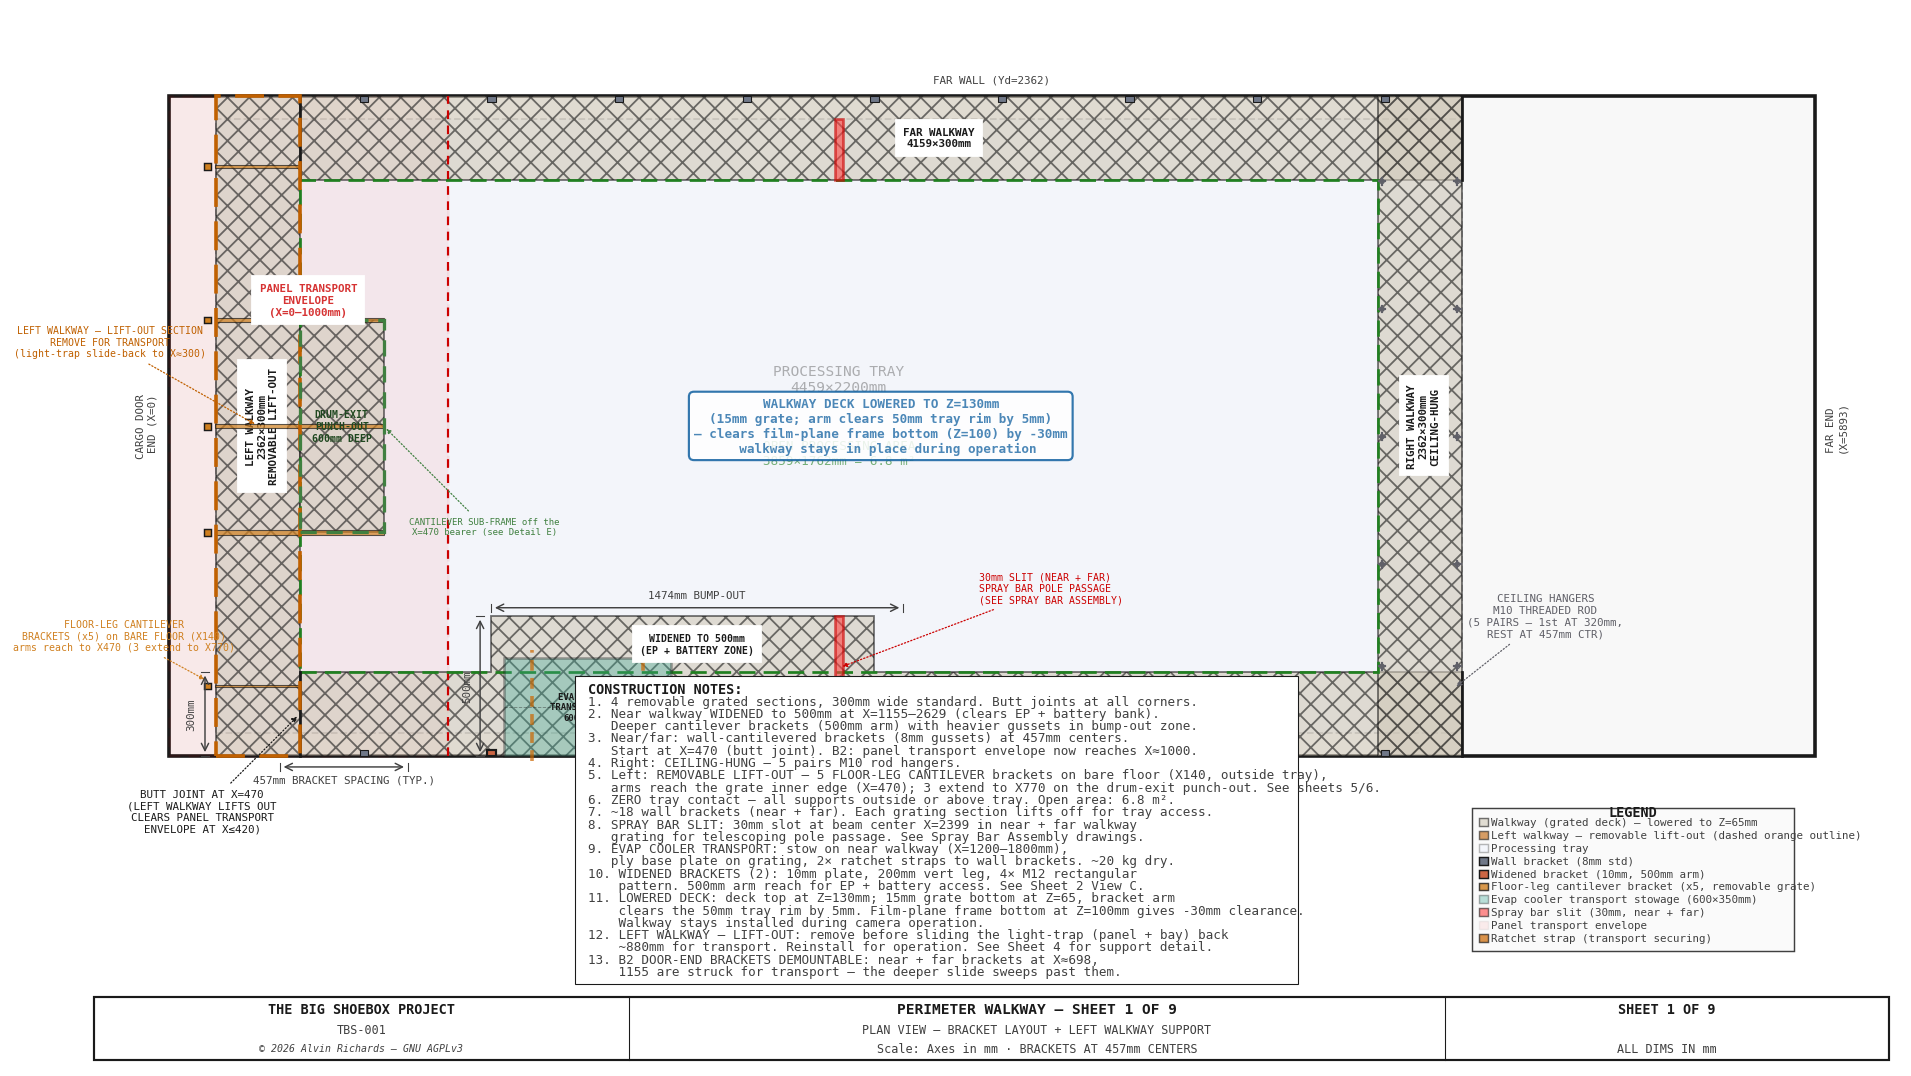
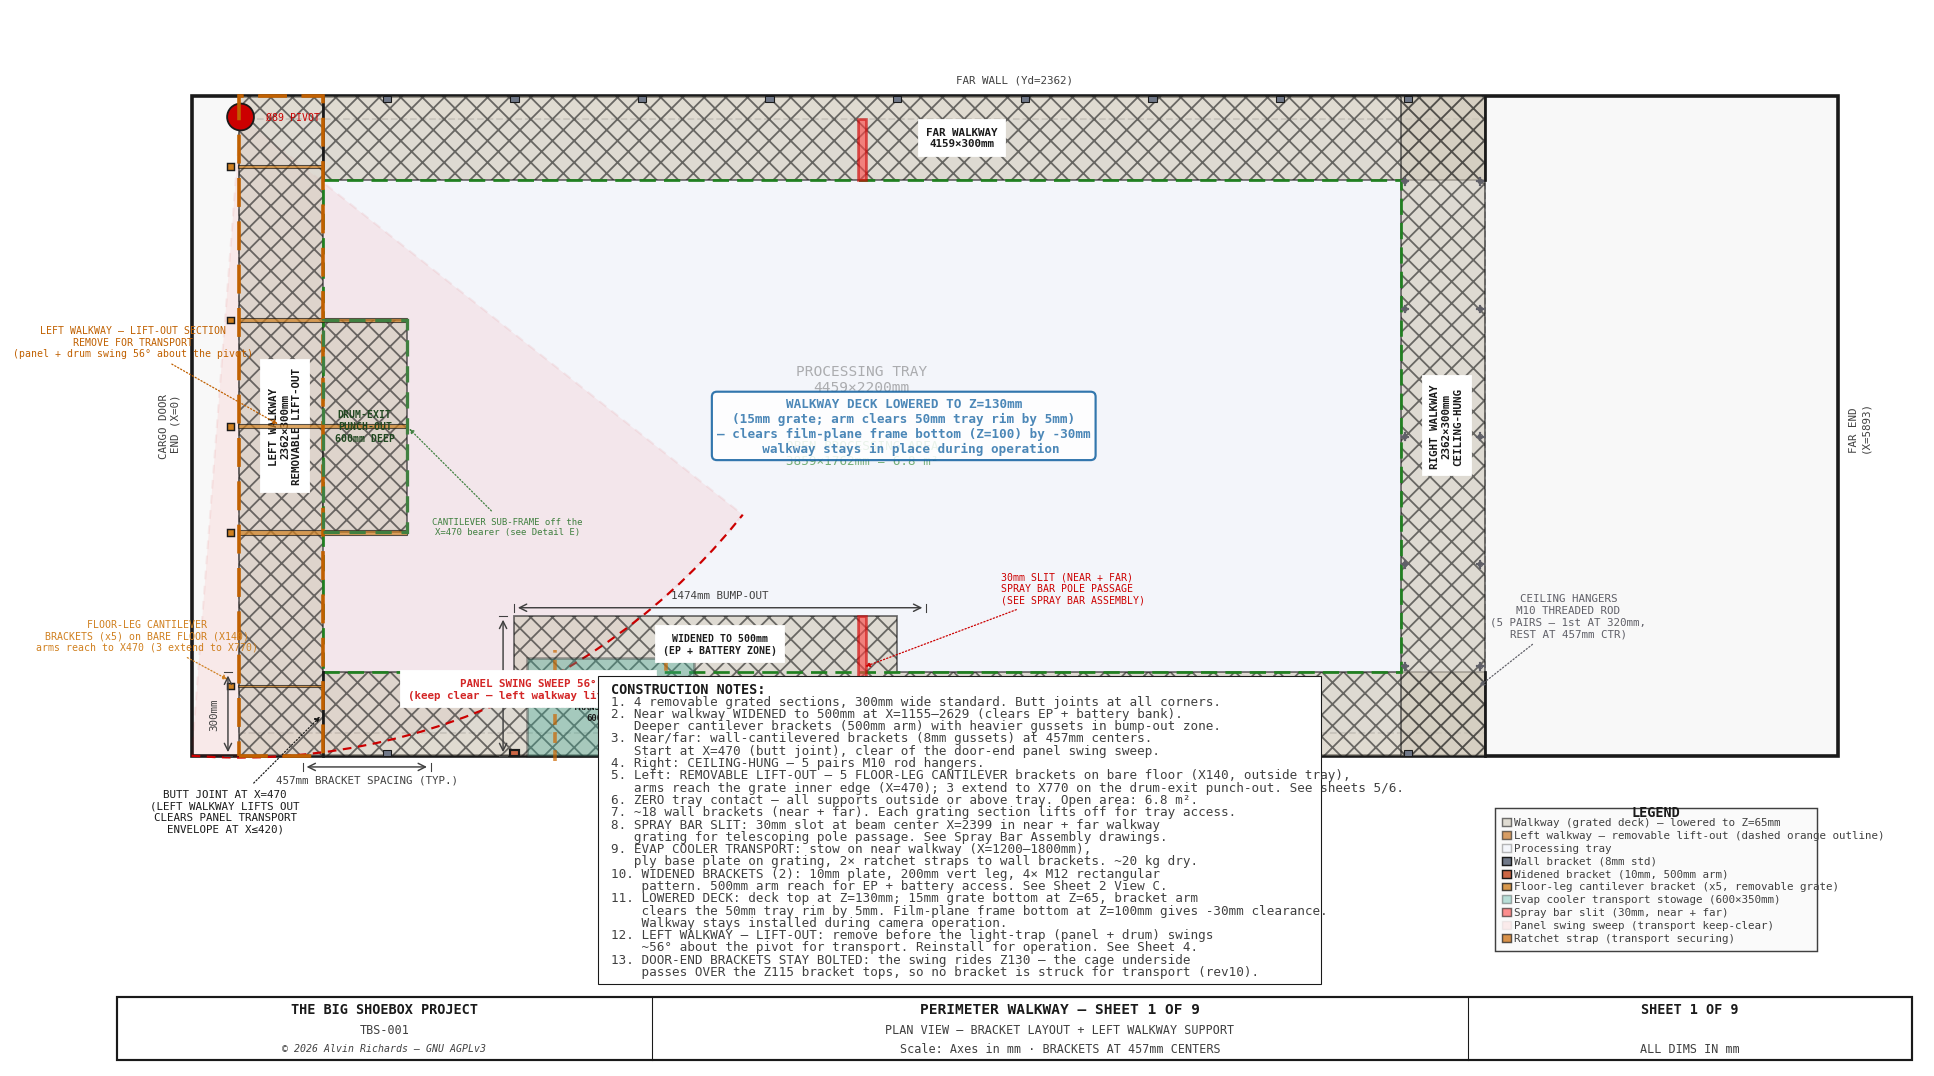
Stage 2: migrate walkway diagram slide→swing + retire WALKWAY_BRACKET_DEMOUNT_X
Walkway diagram (sheets 1 + 4) migrated to the rotation scheme:
- Sheet 1 plan: the rectangular 'panel transport envelope (X=0–1000)' is
  replaced by the SWING SWEEP sector (the region swept by the panel free
  edge rotating 56° about the Ø89 pivot, via a _sw() helper) + pivot marker;
  left-walkway lift-out leader, legend, and notes #3/#12 reworded to the swing
- Sheet 4 cross-section: 'panel slides 880mm sweeps past the butt joint' →
  the swinging cage sweeps past X=470 riding the Z130 gap over the Z115
  brackets (the Z-clearance message is unchanged); PANEL_INNER redefined off
  a representative swing reach, dropping the PANEL_SLIDE/PANEL_CENTER_T imports

Full retirement of WALKWAY_BRACKET_DEMOUNT_X (per decision): the swing clears
the door-end brackets at Z (cage underside Z130 over Z115 bracket tops), so no
bracket is struck for transport. Removed the constant from tbs_constants.py and
its only consumer (the walkway diagram); note #13 now states the brackets stay
bolted. No model/cost/dependency-map line referenced it (demount was a procedure
note, not hardware) — nothing to re-sum or re-run.

diff --git a/src/generators/generate_walkway_diagram.py b/src/generators/generate_walkway_diagram.py
@@ -8,7 +8,7 @@ Sheet 1 — Plan view of walkway layout:
   Top-down view showing all 4 walkway sections with bracket positions.
   Left walkway shown as removable lift-out (no brackets — panel conflict).
   Right walkway brackets on angle iron welded to flat end wall.
-  Panel transport envelope shown as dashed red zone.
+  Panel swing sweep (~56° about the pivot) shown as dashed red sector.
 
 Sheet 2 — Cross-section + bolt pattern (near walkway bracket):
   View A: Detail cross-section (~5:1) showing grated deck, wall-cantilevered
@@ -30,9 +30,10 @@ Sheet 4 — Detail B: Left walkway butt joint and panel clearance:
   View looking along Yd (near wall toward far wall), X horizontal, Z vertical.
   Shows left walkway grating (X=170-470, removable lift-out) meeting the
   full-width steel edge beam at the butt joint (X=470); both grating edges bear
-  on its Z65 ledges (no X=470 bracket). Panel transport envelope (X=0-1000)
-  shown as ghost — the panel sweeps ~530mm past the butt joint through the
-  vacated left-walkway zone. Bearing strip and floor leg shown in cross-section.
+  on its Z65 ledges (no X=470 bracket). The swinging cage (panel + drum) is
+  shown as ghost — it sweeps past the butt joint through the vacated left-walkway
+  zone, riding the Z130 floor gap over the brackets. Bearing strip and floor leg
+  shown in cross-section.
 
 Sheet 5 — Detail C: Left walkway support system (floor-leg cantilevers, plan):
   Elevation showing all support elements: floor-standing leg (X=140, on bare
@@ -62,7 +63,7 @@ from tbs_constants import (
     PROC_TRAY_YD_NEAR, PROC_TRAY_YD_FAR, PROC_TRAY_RIM,
     WALKWAY_W, WALKWAY_H, WALKWAY_GRATE_T, WALKWAY_RIGHT_W,
     WALKWAY_BRACKET_H, WALKWAY_BRACKET_T, WALKWAY_BRACKET_SPACING,
-    WALKWAY_BRACKET_DEMOUNT_X,
+    PIVOT_X, PIVOT_YD, SWING_LOCK_DEG,
     WALKWAY_RIGHT_BEARER_SIZE, WALKWAY_RIGHT_BEARER_T,
     WALKWAY_RIGHT_HANGER_D, WALKWAY_RIGHT_HANGER_N, WALKWAY_RIGHT_HANGER_Y1, WALKWAY_RIGHT_HANGER_L,
     WALKWAY_RIGHT_CEIL_PLATE, WALKWAY_RIGHT_CEIL_BOLT_D,
@@ -71,7 +72,7 @@ from tbs_constants import (
     WALKWAY_NEAR_YD, WALKWAY_FAR_YD, WALKWAY_LEFT_X, WALKWAY_RIGHT_X,
     PROC_OPEN_X_L, PROC_OPEN_X_R, PROC_OPEN_YD_N, PROC_OPEN_YD_F,
     PROC_OPEN_AREA,
-    PANEL_SLIDE, PANEL_CENTER_T, PANEL_FLOOR_GAP,
+    PANEL_FLOOR_GAP,
     LEFT_WK_CANT_LEG_X, LEFT_WK_CANT_LEG_YDS, LEFT_WK_CANT_POST, LEFT_WK_CANT_POST_T,
     LEFT_WK_CANT_POST_W, LEFT_WK_CANT_FOOT, LEFT_WK_CANT_FOOT_X0, LEFT_WK_CANT_FOOT_BOLT_N,
     LEFT_WK_CANT_ARM_Z0, LEFT_WK_CANT_ARM_W, LEFT_WK_CANT_ARM_W_WIDE,
@@ -711,7 +712,7 @@ def sheet1():
 
     # ── Draw walkway sections ────────────────────────────────────────────────
     # Left corners: BUTT JOINT — near/far walkways start at X=LXR (470)
-    # so they clear the panel transport envelope (max X=420).
+    # so they clear the panel swing sweep at the door end.
     # Right corners: BUTT JOINT — right walkway is ceiling-hung (same 300mm width).
     C_WK = "#D0C8B8"
     WK_ALPHA = 0.6
@@ -828,18 +829,18 @@ def sheet1():
 
     # ── Left walkway — removable section marking ──────────────────────────────
     # The left walkway (X 170–470, full Yd depth) is a LIFT-OUT section so the
-    # light-trap (cargo panel + drum) can slide back to ~X=300 for transport.
+    # light-trap (cargo panel + drum) can swing ~56° about the pivot for transport.
     # It stays installed for camera operation.
     # Mark it with a dashed orange outline to indicate removable status.
     C_REMOVABLE = "#C06000"   # orange for removable section
     ax.add_patch(Rectangle((LX, NY), W, FYO - NY,
                             fc="none", ec=C_REMOVABLE, lw=2.0, ls=(0, (8, 4)),
                             zorder=13))
-    # Leader from left walkway center pointing left (clear of panel transport zone)
+    # Leader from left walkway center pointing left (clear of panel swing sweep)
     leader(ax, LX + W / 2, (NY + FYO) / 2,
            LX - 380, (NY + FYO) / 2 + 300,
            f"LEFT WALKWAY — LIFT-OUT SECTION\n"
-           f"REMOVE FOR TRANSPORT\n(light-trap slide-back to X≈300)",
+           f"REMOVE FOR TRANSPORT\n(panel + drum swing 56° about the pivot)",
            color=C_REMOVABLE, fs=5.5,
            ha="center", va="center", arrow_style="-|>", font=FONT)
 
@@ -961,19 +962,30 @@ def sheet1():
             ha="left", va="center", fontsize=4.5, color="#CC6600",
             **FONT, zorder=8)
 
-    # ── Panel transport envelope (dashed red) ────────────────────────────────
-    # Show the zone swept by the panel when sliding to transport position.
-    # Left walkway must be removed before panel slides.
-    panel_transport_x = PANEL_SLIDE + 120  # panel center zone inner face in transport
-    ax.add_patch(Rectangle((0, 0), panel_transport_x, C_WID,
-                            fc="#FF0000", ec="#CC0000", lw=1.5, ls=(0, (4, 3)),
-                            alpha=0.06, zorder=3))
-    ax.plot([panel_transport_x, panel_transport_x], [0, C_WID],
+    # ── Panel swing sweep (dashed red) ───────────────────────────────────────
+    # rev10: the cargo panel + drum SWING ~56° about the Ø89 pivot (PIVOT_X, PIVOT_YD),
+    # they no longer slide. The left walkway must lift out before the swing so the
+    # swinging cage can transition the X=150 rail line / near-door deck. Shade the
+    # sector swept by the panel free edge — the keep-clear transport zone.
+    def _sw(x, y, deg):
+        t = np.radians(deg); c, s = np.cos(t), np.sin(t)
+        return (PIVOT_X + (x - PIVOT_X) * c - (y - PIVOT_YD) * s,
+                PIVOT_YD + (x - PIVOT_X) * s + (y - PIVOT_YD) * c)
+    sweep_arc = [_sw(0, 0, d) for d in np.linspace(0, SWING_LOCK_DEG, 28)]
+    ax.add_patch(Polygon([(PIVOT_X, PIVOT_YD)] + sweep_arc, closed=True,
+                         fc="#FF0000", ec="#CC0000", lw=1.2, ls=(0, (4, 3)),
+                         alpha=0.06, zorder=3))
+    ax.plot([p[0] for p in sweep_arc], [p[1] for p in sweep_arc],
             color="#CC0000", lw=1.2, ls=(0, (4, 3)), zorder=5)
-    ax.text(panel_transport_x / 2, C_WID / 2 + 450,
-            f"PANEL TRANSPORT\nENVELOPE\n(X=0\u2013{panel_transport_x}mm)",
+    ax.add_patch(Circle((PIVOT_X, PIVOT_YD), 48, fc="#CC0000", ec=C_OUT,
+                        lw=1.0, zorder=6))
+    ax.text(PIVOT_X + 90, PIVOT_YD, "\u00d889 PIVOT", ha="left", va="center",
+            fontsize=5.5, color="#CC0000", **FONT, zorder=8)
+    _mid = sweep_arc[int(len(sweep_arc) * 0.55)]
+    ax.text(_mid[0], _mid[1],
+            f"PANEL SWING SWEEP {int(SWING_LOCK_DEG)}\u00b0\n(keep clear \u2014 left walkway lifts out)",
             ha="center", va="center", fontsize=6, color="#CC0000",
-            fontweight="bold", **FONT, zorder=15, alpha=0.8,
+            fontweight="bold", **FONT, zorder=15, alpha=0.85,
             backgroundcolor="#FFFFFF")
 
     # ── Open processing area outline ─────────────────────────────────────────
@@ -1031,7 +1043,7 @@ def sheet1():
         (C_SUPPORT,  0.8,      None,  f"Floor-leg cantilever bracket (x5, removable grate)"),
         ("#3DAA96",  0.35,     None,  f"Evap cooler transport stowage ({EVAP_W}×{EVAP_D}mm)"),
         ("#FF4444",  0.6,      None,  f"Spray bar slit ({SPRAY_BAR_SLIT_W}mm, near + far)"),
-        ("#FF0000",  0.06,     None,  "Panel transport envelope"),
+        ("#FF0000",  0.06,     None,  "Panel swing sweep (transport keep-clear)"),
         ("#CC6600",  0.7,      None,  "Ratchet strap (transport securing)"),
     ], C_LEN - 1225, C_WID + PAD_Y_TOP - 2850, pad=25, col_w=1100, font=FONT)
 
@@ -1045,7 +1057,7 @@ def sheet1():
         f"2. Near walkway WIDENED to {WALKWAY_NEAR_WIDE_W}mm at X={WXL}\u2013{WXR} (clears EP + battery bank).",
         f"   Deeper cantilever brackets ({WALKWAY_NEAR_WIDE_W}mm arm) with heavier gussets in bump-out zone.",
         f"3. Near/far: wall-cantilevered brackets ({WALKWAY_BRACKET_T}mm gussets) at {WALKWAY_BRACKET_SPACING}mm centers.",
-        f"   Start at X={LXR} (butt joint). B2: panel transport envelope now reaches X\u22481000.",
+        f"   Start at X={LXR} (butt joint), clear of the door-end panel swing sweep.",
         f"4. Right: CEILING-HUNG \u2014 {WALKWAY_RIGHT_HANGER_N} pairs M{WALKWAY_RIGHT_HANGER_D} rod hangers.",
         f"5. Left: REMOVABLE LIFT-OUT \u2014 5 FLOOR-LEG CANTILEVER brackets on bare floor (X140, outside tray),",
         f"   arms reach the grate inner edge (X={LXR}); 3 extend to X770 on the drum-exit punch-out. See sheets 5/6.",
@@ -1060,10 +1072,10 @@ def sheet1():
         f"11. LOWERED DECK: deck top at Z={WALKWAY_H}mm; {WALKWAY_GRATE_T}mm grate bottom at Z=65, bracket arm",
         f"    clears the {PROC_TRAY_RIM}mm tray rim by 5mm. Film-plane frame bottom at Z=100mm gives {100 - WALKWAY_H}mm clearance.",
         f"    Walkway stays installed during camera operation.",
-        f"12. LEFT WALKWAY — LIFT-OUT: remove before sliding the light-trap (panel + bay) back",
-        f"    ~{PANEL_SLIDE}mm for transport. Reinstall for operation. See Sheet 4 for support detail.",
-        f"13. B2 DOOR-END BRACKETS DEMOUNTABLE: near + far brackets at X≈{WALKWAY_BRACKET_DEMOUNT_X[0]},",
-        f"    {WALKWAY_BRACKET_DEMOUNT_X[1]} are struck for transport — the deeper slide sweeps past them.",
+        f"12. LEFT WALKWAY — LIFT-OUT: remove before the light-trap (panel + drum) swings",
+        f"    ~{SWING_LOCK_DEG}° about the pivot for transport. Reinstall for operation. See Sheet 4.",
+        f"13. DOOR-END BRACKETS STAY BOLTED: the swing rides Z{PANEL_FLOOR_GAP} — the cage underside",
+        f"    passes OVER the Z115 bracket tops, so no bracket is struck for transport (rev10).",
     ]
     draw_notes(ax, notes, 1500,
                -PAD_Y_BOT + 350 + (len(notes) - 1) * 44,
@@ -1475,8 +1487,9 @@ def sheet4():
     # X positions (horizontal axis in this view — looking along Yd)
     LEFT_WK_L = WALKWAY_LEFT_X                    # = 170mm (left walkway left edge)
     LEFT_WK_R = WALKWAY_LEFT_X + WALKWAY_W        # = 470mm (butt joint / near walkway start)
-    PANEL_INNER = PANEL_SLIDE + PANEL_CENTER_T    # = 1000mm (panel front face when slid; B2: PANEL_SLIDE=880 + 120 center)
-    SLIDE_OVER = PANEL_INNER - LEFT_WK_R          # = 530mm panel reaches past the X=470 butt joint into the vacated zone
+    PANEL_INNER = 1000   # representative swept X-reach of the cage at the door end (rev10: the
+                         # panel + drum swing about the pivot, the cage sweeping roughly to here)
+    SWEEP_OVER = PANEL_INNER - LEFT_WK_R          # = 530mm the cage sweeps past the X=470 butt joint into the vacated zone
     NEAR_WK_SHOW = 200   # show 200mm of near walkway past butt joint
 
     grate_bot = BRKT_ARM_Z   # = 65mm
@@ -1547,8 +1560,8 @@ def sheet4():
     ax.add_patch(Rectangle((sx(LEFT_WK_R), sy(SPRAY_BAR_Z_BOT)), sx(40),
                             sy(SPRAY_BAR_Z_TOP - SPRAY_BAR_Z_BOT), fc="#C8D8E8", ec=C_OUT, lw=1.0, zorder=4))
 
-    # ── Panel transport envelope (ghost) ─────────────────────────────────────
-    # Panel sweeps X=0 to X=420, bottom at Z=80mm (PANEL_FLOOR_GAP)
+    # ── Panel swing sweep (ghost) ────────────────────────────────────────────
+    # The swinging cage sweeps X=0 to X=PANEL_INNER, bottom at Z=PANEL_FLOOR_GAP
     PANEL_Z_TOP = 250   # show enough of panel to be visible (not full height)
     ax.add_patch(Rectangle((sx(0), sy(PANEL_FLOOR_GAP)),
                             sx(PANEL_INNER), sy(PANEL_Z_TOP - PANEL_FLOOR_GAP),
@@ -1562,7 +1575,7 @@ def sheet4():
     ax.plot([sx(0), sx(PANEL_INNER)], [sy(PANEL_FLOOR_GAP), sy(PANEL_FLOOR_GAP)],
             color="#CC4422", lw=2.0, ls="--", alpha=0.6, zorder=8)
     ax.text(sx(PANEL_INNER / 2), sy(PANEL_Z_TOP - 10),
-            f"PANEL TRANSPORT\nENVELOPE\n(X=0\u2013{PANEL_INNER}mm)\nBOTTOM AT Z={PANEL_FLOOR_GAP}mm",
+            f"PANEL SWING\nSWEEP\n(rides Z={PANEL_FLOOR_GAP}mm over\nthe Z115 brackets)",
             ha="center", va="top", fontsize=6, color="#CC4422",
             fontweight="bold", **FONT, alpha=0.7, zorder=15)
 
@@ -1637,12 +1650,12 @@ def sheet4():
             ha="center", va="top", fontsize=6, color=C_OUT,
             fontweight="bold", **FONT, zorder=15)
 
-    # ── Panel slide reach past the butt joint (left walkway removed first) ────
-    # B2: the panel slides 880mm, its front face reaching X=PANEL_INNER (~1000),
-    # sweeping SLIDE_OVER (~530mm) PAST the X=470 butt joint — through the zone
-    # the removable left walkway + edge beam have vacated.
+    # ── Panel swing reach past the butt joint (left walkway removed first) ────
+    # rev10: the panel + drum swing ~56° about the pivot; the cage sweeps roughly to
+    # X=PANEL_INNER (~1000), ~SWEEP_OVER (~530mm) PAST the X=470 butt joint — through
+    # the zone the removable left walkway + edge beam have vacated, riding the Z130 gap.
     draw_dim_h(ax, sx(LEFT_WK_R), sx(PANEL_INNER), sy(grate_top + 45),
-               f"{SLIDE_OVER}mm PANEL SWEEPS PAST X={LEFT_WK_R}\n(LEFT WALKWAY REMOVED FIRST)",
+               f"{SWEEP_OVER}mm CAGE SWEEPS PAST X={LEFT_WK_R}\n(LEFT WALKWAY REMOVED FIRST)",
                offset=sy(5), fs=6.5, color="#CC4422", font=FONT)
     # Vertical guide line at the panel front face
     ax.plot([sx(PANEL_INNER), sx(PANEL_INNER)], [sy(0), sy(grate_top + 55)],
@@ -1680,8 +1693,8 @@ def sheet4():
         f"2. Inner edge (X={LEFT_WK_R}): carried by FLOOR-LEG CANTILEVER arms (5 brackets; 3 extend to X770 on the punch-out). See sheets 5/6.",
         f"3. Brackets bolted to BARE FLOOR outboard of the tray (X<{LEFT_WK_L}) \u2014 zero tray/wall contact.",
         f"4. The arms pass 15mm OVER the floor-level spray bar (Z60); the +50mm walkway raise enables it.",
-        f"5. Panel slides {PANEL_SLIDE}mm; front face reaches X={PANEL_INNER} \u2014 sweeps {SLIDE_OVER}mm past the X={LEFT_WK_R} butt joint (rides Z{PANEL_FLOOR_GAP}, clears the Z115 brackets).",
-        f"6. The grate lifts out before the panel slides; the floor brackets stay bolted (permanent). No kerb.",
+        f"5. Panel + drum swing {SWING_LOCK_DEG}\u00b0 about the pivot; the cage sweeps ~{SWEEP_OVER}mm past the X={LEFT_WK_R} butt joint (rides Z{PANEL_FLOOR_GAP}, clears the Z115 brackets).",
+        f"6. The grate lifts out before the swing; the floor brackets stay bolted (permanent). No kerb.",
     ]
     draw_notes(ax, notes, notes_x, notes_top, spacing=sy(8), fs=7, width=sx(400), font=FONT)
 

diff --git a/src/generators/tbs_constants.py b/src/generators/tbs_constants.py
@@ -550,10 +550,9 @@ CONTAINER_RIB_SPACING = 457   # mm (18 inches) — vertical corrugation flanges
 WALKWAY_BRACKET_H = 150  # bracket vertical leg height on wall (mm)
 WALKWAY_BRACKET_T = 8    # bracket plate thickness (mm)
 WALKWAY_BRACKET_SPACING = CONTAINER_RIB_SPACING  # bracket spacing along walkway (mm)
-# B2 (rev9): the panel slides to ~X=1000 for transport (deeper than the old ~670),
-# so the first near/far door-end brackets must be DEMOUNTABLE for transport — struck
-# with the film plane + left rails so the panel clears them.
-WALKWAY_BRACKET_DEMOUNT_X = (698, 1155)   # bracket X-stations struck for transport
+# rev10: the panel + drum SWING ~56° about the pivot for transport and the swinging cage
+# rides the Z130 floor gap — its underside passes OVER the Z115 door-end bracket tops, so
+# NO walkway bracket is struck for transport (the old WALKWAY_BRACKET_DEMOUNT_X is retired).
 # Right walkway (IBC end) — ceiling-hung design.
 # No floor contact, no box beam.  Two longitudinal steel angle bearers
 # (25×25×5mm) running full container width along Yd, suspended from ceiling
